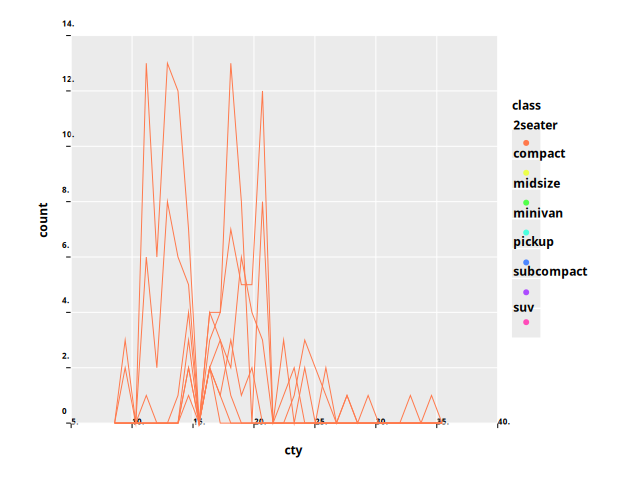
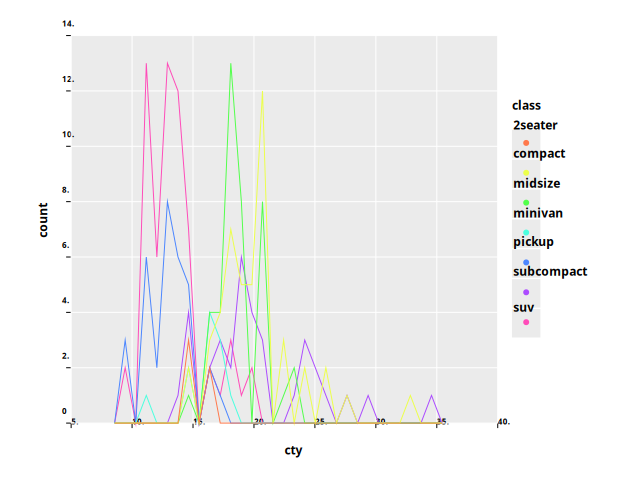
fix freq_poly colors

Changed region(s): [[0.1562, 0.125, 0.6875, 0.9062], [0.4062, 0.1875, 0.4375, 0.3125]]

diff --git a/src/python_ggplot/gg/drawing.py b/src/python_ggplot/gg/drawing.py
@@ -889,7 +889,7 @@ def draw_sub_df(
 
     if geom_type in {GeomType.LINE, GeomType.FREQ_POLY, GeomType.HISTOGRAM}:
         if len(styles) == 1:
-            style = merge_user_style(styles[0], fg)
+            style = merge_user_style(deepcopy(styles[0]), fg)
             if style.fill_color is None:
                 raise GGException("expected fill color")
 
@@ -899,8 +899,9 @@ def draw_sub_df(
             # if style.fill_color.a == 0.0 or geom_type == GeomType.FREQ_POLY:
             if geom_type == GeomType.FREQ_POLY:
                 line_points = extend_line_to_axis(line_points, AxisKind.X, df, fg)
+
             poly_line = init_poly_line_from_points(
-                view, [i.point() for i in line_points], style
+                view, [i.point() for i in line_points], deepcopy(style)
             )
             view.add_obj(poly_line)
         else:
@@ -915,7 +916,7 @@ def draw_sub_df(
             for i in range(len(styles) - 1):
                 style = merge_user_style(styles[i], fg)
                 poly_line = init_poly_line_from_points(
-                    view, [line_points[i].point(), line_points[i + 1].point()], style
+                    view, [line_points[i].point(), line_points[i + 1].point()], deepcopy(style)
                 )
                 view.add_obj(poly_line)
     elif geom_type == GeomType.RASTER:
